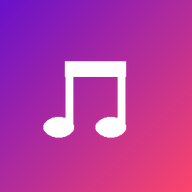
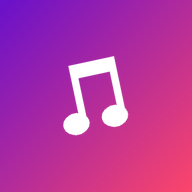
图标照 Apple Music 设计：粗壮圆润双音符整体上扬倾斜12°，紫粉渐变底，裁剪字形后精确居中（偏差0.5px）

Changed region(s): [[0.2188, 0.2812, 0.6875, 0.7188]]

diff --git a/gen_icons.py b/gen_icons.py
@@ -25,48 +25,63 @@ def gradient_bg(size):
                     px[x + dx, y] = (r, g, b)
     return img
 
-def draw_standard_note(img, size):
-    """手绘标准乐理形态双音符 ♫（基准 512 设计，按尺寸等比缩放）
+def render_tilted_note(size, tilt=12, note_h_ratio=0.60):
+    """Apple Music 风格倾斜双音符：粗壮圆润部件 + 整体上扬倾斜，裁剪后精确居中
 
-    标准形态（乐谱里的样子）：
-    - 音符头：椭圆，位于符干的左下方
-    - 符干：从音符头右侧竖直向上
-    - 横梁：水平连接两干顶部
-    布局约束：两根符干中心严格对称于图标垂直中心线。
+    流程：透明图层画水平双音符 -> rotate(tilt) 左低右高上扬姿态
+    -> 裁剪 ink bbox -> 等比缩放到目标高度 -> 返回居中坐标
     """
     k = size / 512.0
-    c = size / 2
     white = (255, 255, 255, 255)
-    d = 98 * k           # 符干距中心线半距（两干中心距 196*k，严格对称）
-    stem_w = 26 * k      # 符干宽
-    y_top = 130 * k      # 梁/干顶部
-    stem_bottom = 382 * k  # 符干底部（到头中心线）
-    head_w = 112 * k     # 音符头宽
-    head_h = 76 * k      # 音符头高
-    head_cy = 375 * k    # 音符头中心 y
-    head_dx = 40 * k     # 头中心相对符干中心的左偏（头在干左下）
-    beam_h = 56 * k      # 横梁高
-    beam_pad = 2 * k     # 横梁在干外的延伸
+    layer = Image.new('RGBA', (size, size), (0, 0, 0, 0))
+    d = ImageDraw.Draw(layer)
+    c = size / 2
+    dist = 85 * k        # 符干距中心线半距（Apple 音符两干间距紧凑）
+    stem_w = 30 * k      # 符干宽（Apple 风格粗壮）
+    y_top = 122 * k
+    stem_bottom = 385 * k
+    head_w = 112 * k     # 音符头宽（饱满圆润）
+    head_h = 92 * k      # 音符头高（接近圆）
+    head_cy = 372 * k
+    head_dx = 34 * k     # 头中心相对符干中心的左偏
+    beam_h = 58 * k      # 横梁厚
 
-    draw = ImageDraw.Draw(img)
     for side in (-1, 1):
-        stem_cx = c + side * d          # 符干中心（对称于 c）
-        head_cx = stem_cx - head_dx      # 音符头中心（干的左下方）
-        # 音符头（椭圆）
-        draw.ellipse([head_cx - head_w/2, head_cy - head_h/2,
-                      head_cx + head_w/2, head_cy + head_h/2], fill=white)
-        # 符干（从头顶部向上）
-        draw.rectangle([stem_cx - stem_w/2, y_top,
-                        stem_cx + stem_w/2, stem_bottom], fill=white)
-    # 横梁：水平连接两干顶部
-    draw.rectangle([c - d - stem_w/2 - beam_pad, y_top,
-                    c + d + stem_w/2 + beam_pad, y_top + beam_h], fill=white)
+        stem_cx = c + side * dist
+        head_cx = stem_cx - head_dx
+        # 音符头
+        d.ellipse([head_cx - head_w/2, head_cy - head_h/2,
+                   head_cx + head_w/2, head_cy + head_h/2], fill=white)
+        # 符干
+        d.rectangle([stem_cx - stem_w/2, y_top,
+                     stem_cx + stem_w/2, stem_bottom], fill=white)
+    # 横梁
+    d.rectangle([c - dist - stem_w/2, y_top,
+                 c + dist + stem_w/2, y_top + beam_h], fill=white)
+
+    # 整体倾斜（PIL 正角度=逆时针：梁右端上扬、左端下垂，形成上扬姿态）
+    rotated = layer.rotate(tilt, resample=Image.BICUBIC, expand=False)
+    # 裁剪实际字形并缩放到目标高度
+    bbox = rotated.getbbox()
+    note = rotated.crop(bbox)
+    target_h = int(size * note_h_ratio)
+    target_w = max(1, int(note.width * target_h / note.height))
+    note = note.resize((target_w, target_h), Image.LANCZOS)
+    # 以字形中心精确居中
+    x = (size - target_w) // 2
+    y = (size - target_h) // 2
+    return note, (x, y)
+
+def draw_apple_style_note(img, size, note_h_ratio=0.60):
+    """在渐变背景上合成 Apple 风格倾斜音符（居中）"""
+    note, (x, y) = render_tilted_note(size, tilt=12, note_h_ratio=note_h_ratio)
+    img.alpha_composite(note, (x, y))
     return img
 
 def make_icon(size):
-    """渐变背景 + 标准双音符 + 圆角"""
+    """渐变背景 + Apple 风格倾斜双音符 + 圆角"""
     img = gradient_bg(size).convert('RGBA')
-    draw_standard_note(img, size)
+    draw_apple_style_note(img, size, 0.60)
     # 圆角蒙版
     mask = Image.new('L', (size, size), 0)
     mdraw = ImageDraw.Draw(mask)
@@ -77,17 +92,9 @@ def make_icon(size):
     return final
 
 def make_maskable(size):
-    """maskable 图标：全幅渐变背景 + 音符缩到 40% 居中（留足 safe area）"""
+    """maskable 图标：全幅渐变背景 + 音符缩到 42% 居中（留足 safe area）"""
     bg = gradient_bg(size).convert('RGBA')
-    # 先在大画布绘制再等比缩小贴回，保证小尺寸下比例一致
-    big = Image.new('RGBA', (size, size), (0, 0, 0, 0))
-    draw_standard_note(big, size)
-    # 缩放到 40% 高度（0.40/0.56 ≈ 0.714 倍）
-    factor = 0.40 / 0.56
-    new_w = int(size * factor)
-    small = big.resize((new_w, new_w), Image.LANCZOS)
-    # 只贴音符区域（big 大部分透明，resize 后整体贴上即可）
-    bg.alpha_composite(small, ((size - new_w)//2, (size - new_w)//2))
+    draw_apple_style_note(bg, size, 0.42)
     return bg
 
 sizes = {
